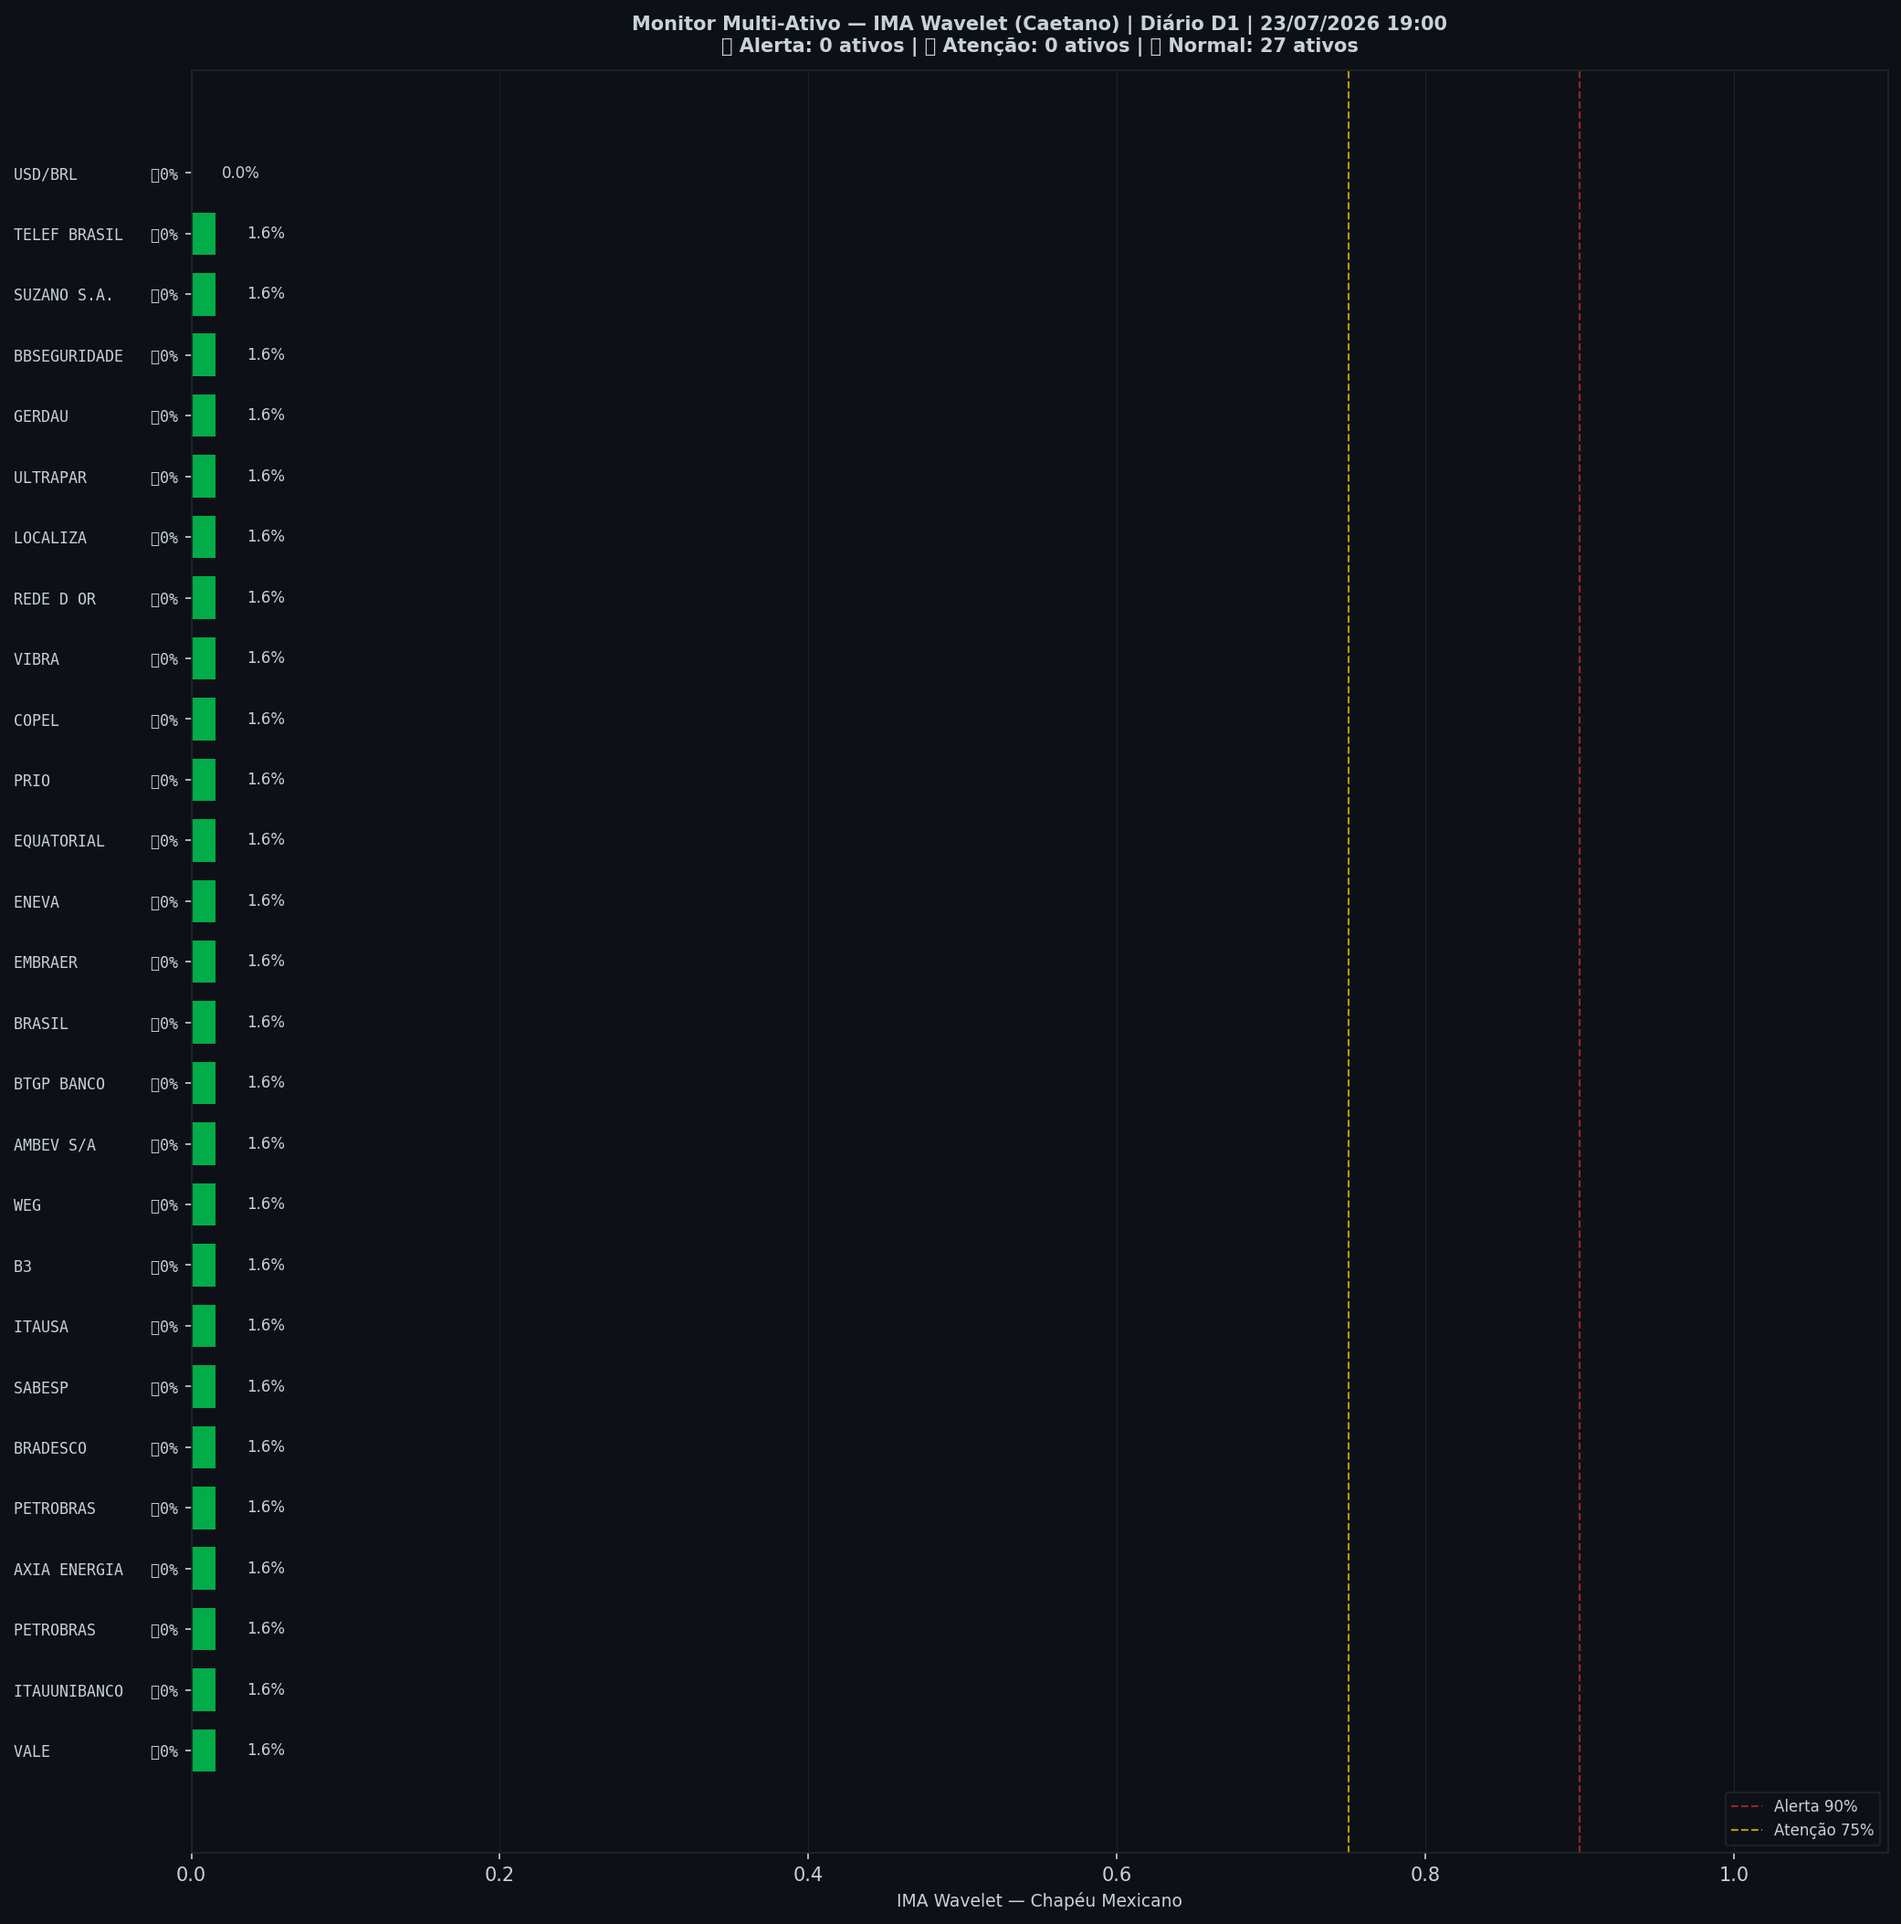
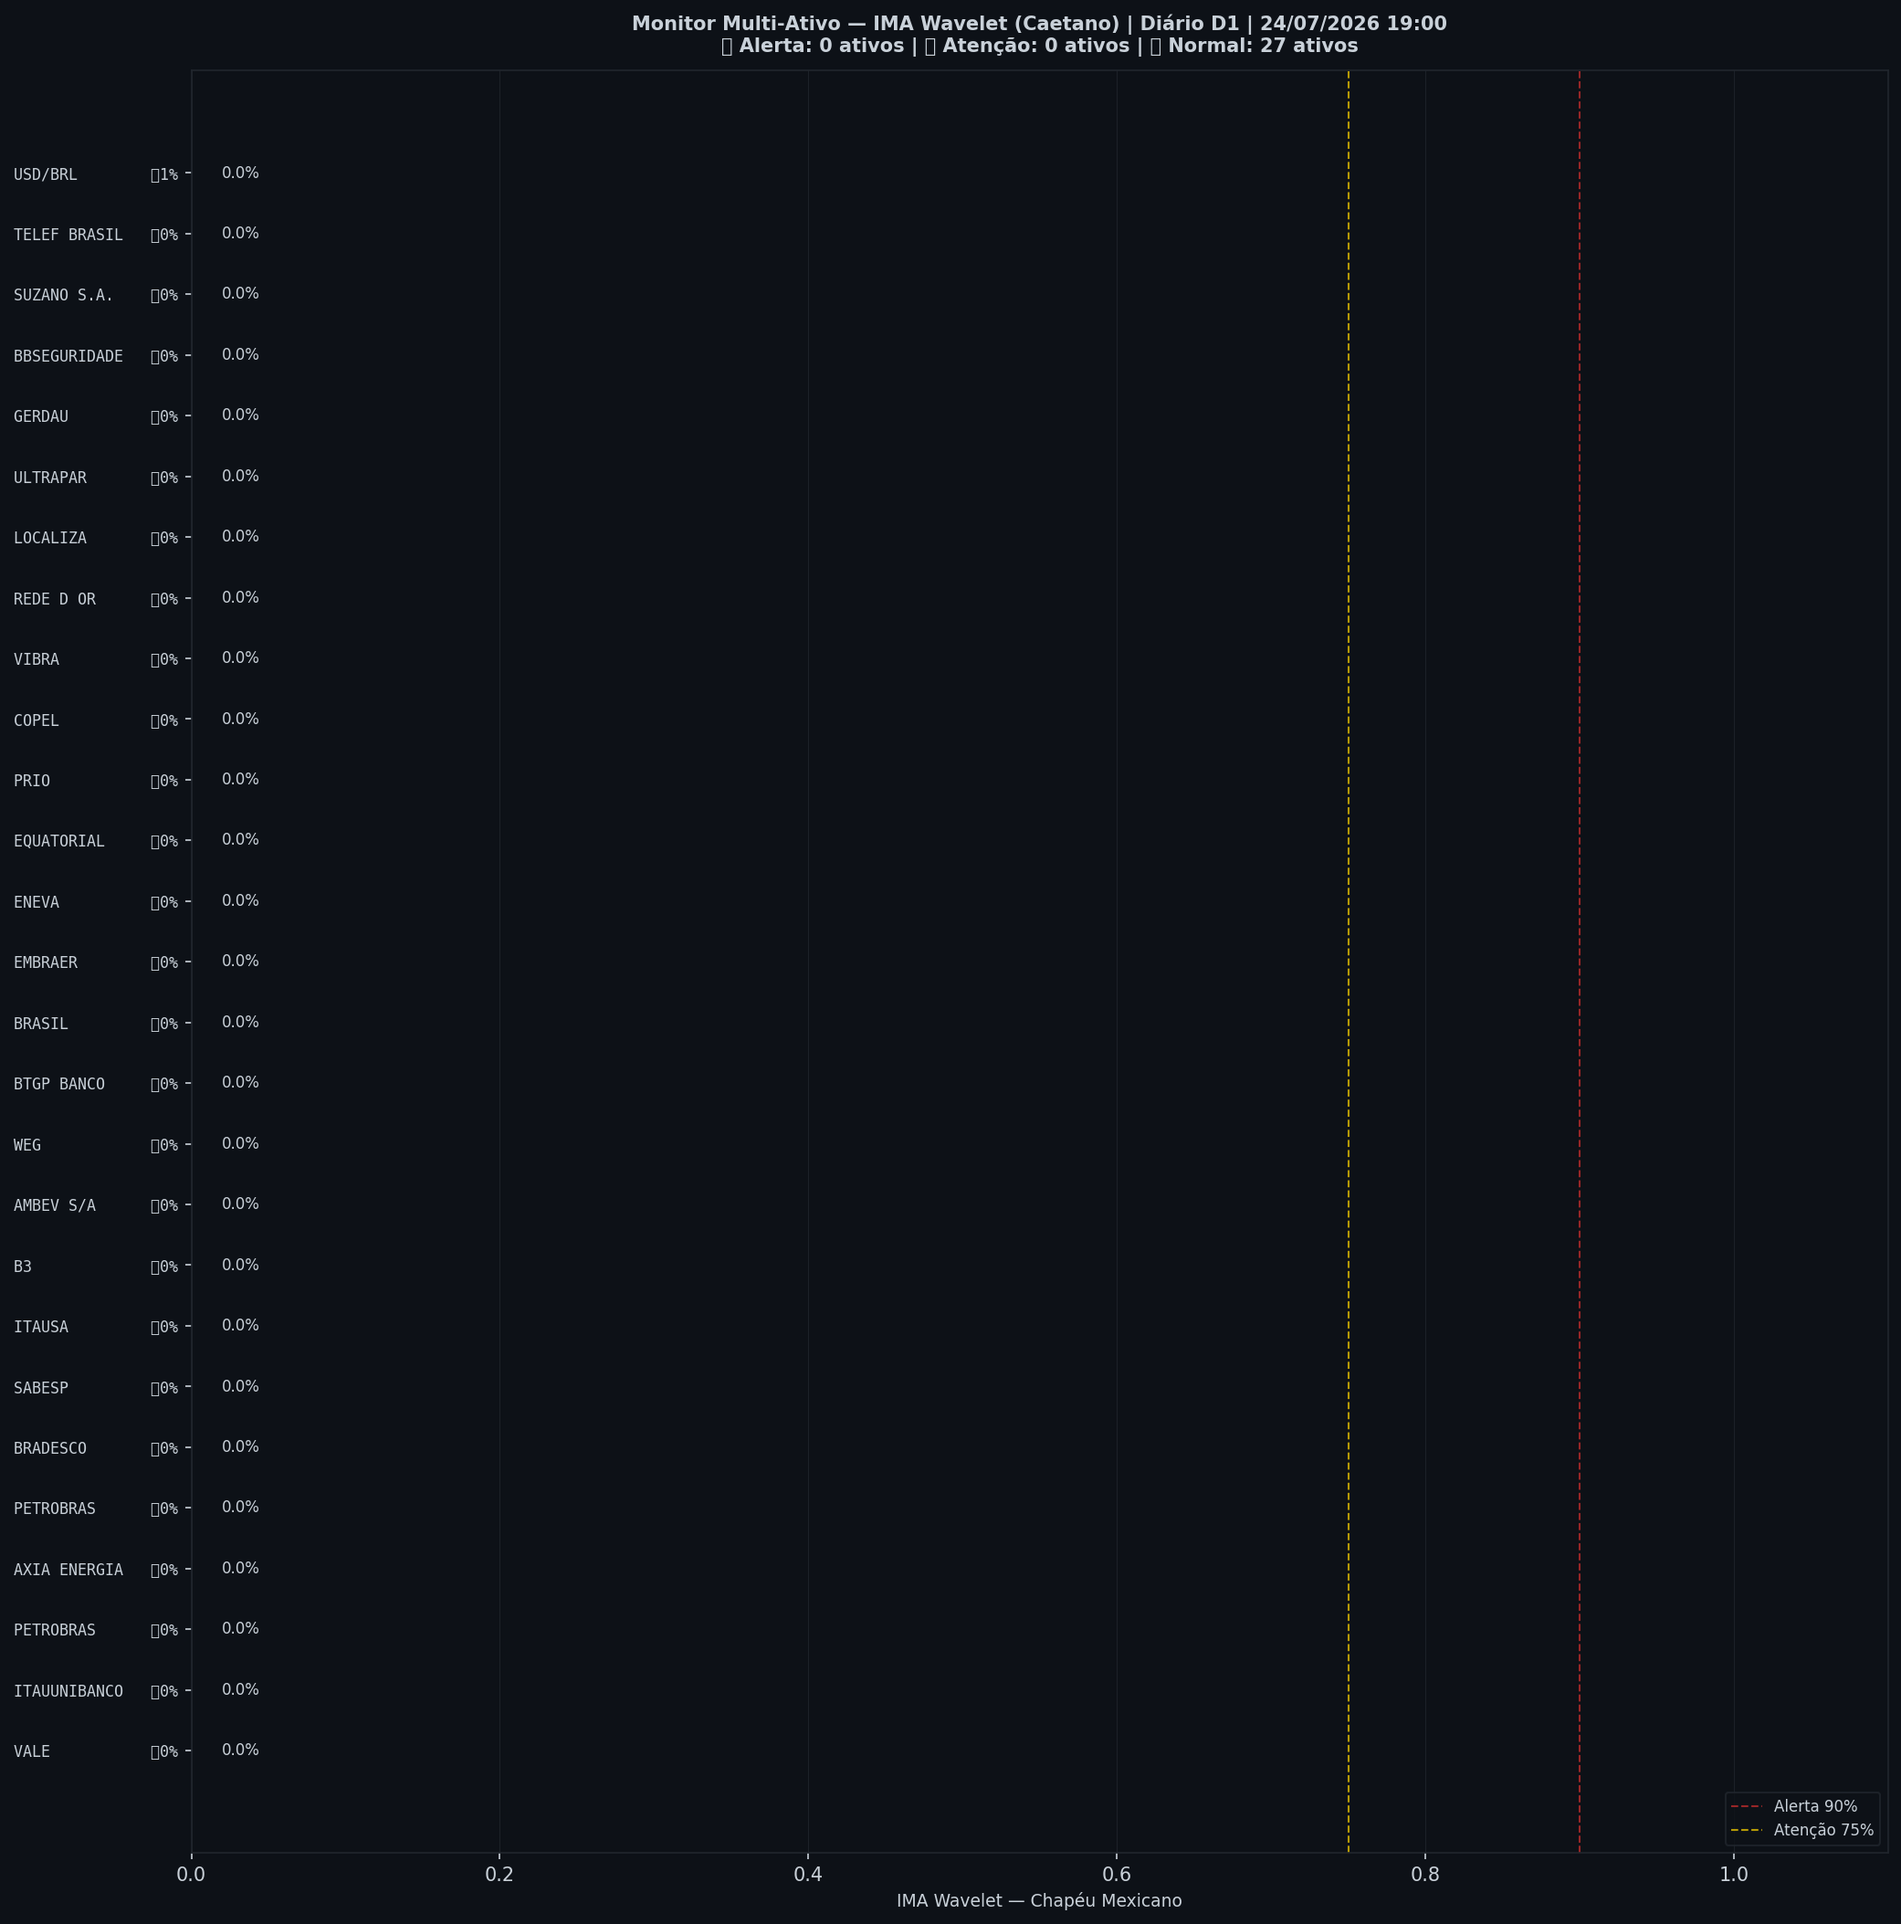
🤖 Auto: Sinal 24/07/2026 19:00

Changed region(s): [[0.0937, 0.0925, 0.1249, 0.9255]]

diff --git a/content/diario/2026-07-23.md b/content/diario/2026-07-23.md
@@ -1,0 +1,105 @@
+---
+title: "🟢 Diário 23/07/2026 — VERDE"
+date: 2026-07-24
+tags: [diario]
+---
+
+> [!success] 🟢 **VERDE** — Risco 0% · ＝ +0 p.p. vs leitura anterior
+> `░░░░░░░░░░░░░░░░░░░░`
+> Mercado sem sinais relevantes de estresse.
+
+
+| Indicador | Valor |
+|---|---|
+| 🔴 ζ Crash — severidade da queda em curso | **0%** |
+| 🔵 ζ Entrada — estrutura de fundo | 71% |
+| 🫧 LPPL DS-Confidence | 0% |
+| 📊 Ibovespa | 174.042 pts |
+
+![Gráfico do sinal](../graficos/sinal_diario.png)
+
+## Últimos 30 pregões
+
+| Data | Zona | Risco | IMA Crash | Entrada | LPPL |
+|---|---|---|---|---|---|
+| 2026-07-23 21:00 | 🟢 VERDE | **0%** | 0% | 71% | 0% |
+| 2026-07-22 21:00 | 🟢 VERDE | **0%** | 0% | 73% | 0% |
+| 2026-07-21 21:00 | 🟢 VERDE | **0%** | 0% | 77% | 0% |
+| 2026-07-20 21:00 | 🟢 VERDE | **0%** | 0% | 80% | 0% |
+| 2026-07-19 21:00 | 🟢 VERDE | **0%** | 1% | 79% | 0% |
+| 2026-07-16 21:00 | 🟢 VERDE | **0%** | 0% | 80% | 0% |
+| 2026-07-15 21:00 | 🟢 VERDE | **0%** | 1% | 80% | 0% |
+| 2026-07-14 21:00 | 🟢 VERDE | **1%** | 2% | 81% | 0% |
+| 2026-07-13 21:00 | 🟢 VERDE | **0%** | 1% | 85% | 0% |
+| 2026-07-12 21:00 | 🟢 VERDE | **0%** | 0% | 91% | 0% |
+| 2026-07-09 21:00 | 🟢 VERDE | **0%** | 0% | 91% | 0% |
+| 2026-07-08 21:00 | 🟢 VERDE | **0%** | 1% | 94% | 0% |
+| 2026-07-07 21:00 | 🟢 VERDE | **0%** | 1% | 93% | 0% |
+| 2026-07-06 21:00 | 🟢 VERDE | **0%** | 0% | 91% | 0% |
+| 2026-07-05 21:00 | 🟢 VERDE | **0%** | 0% | 93% | 0% |
+| 2026-07-02 21:00 | 🟢 VERDE | **0%** | 0% | 94% | 0% |
+| 2026-07-01 21:00 | 🟢 VERDE | **0%** | 1% | 94% | 0% |
+| 2026-06-30 21:00 | 🟢 VERDE | **0%** | 1% | 94% | 0% |
+| 2026-06-29 21:00 | 🟢 VERDE | **0%** | 0% | 95% | 0% |
+| 2026-06-28 21:00 | 🟢 VERDE | **0%** | 0% | 96% | 0% |
+| 2026-06-25 21:00 | 🟢 VERDE | **0%** | 0% | 98% | 0% |
+| 2026-06-24 21:00 | 🟢 VERDE | **0%** | 0% | 98% | 0% |
+| 2026-06-23 21:00 | 🟢 VERDE | **0%** | 0% | 99% | 0% |
+| 2026-06-22 21:00 | 🟢 VERDE | **0%** | 0% | 100% | 0% |
+| 2026-06-21 21:00 | 🟢 VERDE | **0%** | 0% | 99% | 0% |
+| 2026-06-18 21:00 | 🟢 VERDE | **0%** | 0% | 99% | 0% |
+| 2026-06-17 21:00 | 🟢 VERDE | **0%** | 1% | 98% | 0% |
+| 2026-06-16 21:00 | 🟢 VERDE | **0%** | 1% | 98% | 0% |
+| 2026-06-15 21:00 | 🟢 VERDE | **0%** | 1% | 98% | 0% |
+| 2026-06-14 21:00 | 🟢 VERDE | **0%** | 0% | 98% | 0% |
+
+## Monitor Multi-Ativo
+
+**0% dos ativos em tensão** (0🔴 0🟡) — quanto mais ativos disparam juntos, mais confiável o sinal.
+
+| Zona | Ativo | Setor | IMA Crash | IMA Entrada |
+|---|---|---|---|---|
+| 🟢 | **VALE** | Mineração | 0.0% | 0.0% |
+| 🟢 | **ITAUUNIBANCO** | Financeiro | 0.0% | 0.0% |
+| 🟢 | **PETROBRAS** | Petróleo | 0.0% | 0.0% |
+| 🟢 | **AXIA ENERGIA** | Energia | 0.0% | 0.0% |
+| 🟢 | **PETROBRAS** | Petróleo | 0.0% | 0.0% |
+| 🟢 | **BRADESCO** | Financeiro | 0.0% | 0.0% |
+| 🟢 | **SABESP** | Saneamento | 0.0% | 0.0% |
+| 🟢 | **ITAUSA** | Financeiro | 0.0% | 0.0% |
+| 🟢 | **B3** | Financeiro | 0.0% | 0.0% |
+| 🟢 | **AMBEV S/A** | Consumo | 0.0% | 0.0% |
+| 🟢 | **WEG** | Industrial | 0.0% | 0.0% |
+| 🟢 | **BTGP BANCO** | Financeiro | 0.0% | 0.0% |
+| 🟢 | **BRASIL** | Financeiro | 0.0% | 0.0% |
+| 🟢 | **EMBRAER** | Outros | 0.0% | 0.0% |
+| 🟢 | **ENEVA** | Energia | 0.0% | 0.0% |
+| 🟢 | **EQUATORIAL** | Energia | 0.0% | 0.0% |
+| 🟢 | **PRIO** | Petróleo | 0.0% | 0.0% |
+| 🟢 | **COPEL** | Energia | 0.0% | 0.0% |
+| 🟢 | **VIBRA** | Energia | 0.0% | 0.0% |
+| 🟢 | **REDE D OR** | Saúde | 0.0% | 0.0% |
+| 🟢 | **LOCALIZA** | Aluguel | 0.0% | 0.0% |
+| 🟢 | **ULTRAPAR** | Outros | 0.0% | 0.0% |
+| 🟢 | **GERDAU** | Siderurgia | 0.0% | 0.0% |
+| 🟢 | **BBSEGURIDADE** | Financeiro | 0.0% | 0.0% |
+| 🟢 | **SUZANO S.A.** | Papel/Celulose | 0.0% | 0.0% |
+| 🟢 | **TELEF BRASIL** | Outros | 0.0% | 0.0% |
+| 🟢 | **USD/BRL** | Câmbio | 0.0% | 0.8% |
+
+![Monitor multi-ativo](../graficos/multi_diario.png)
+
+*Página atualizada em 24/07/2026 19:00 BRT (leitura da barra de 2026-07-23 BRT).*
+
+> [!info]- Como interpretar (clique para expandir)
+> - **ζ Crash**: fração dos coeficientes wavelet acima do corte (Caetano & Yoneyama 2009). Escala absoluta: ζ=0,90 = 90% dos coeficientes anômalos — historicamente, quedas com ζ≥0,90 foram mais fundas e mais longas. **Mede a severidade do movimento em curso, não prevê o início da queda.**
+> - **ζ Entrada**: coeficientes negativos além do corte — estrutura de fundo, possível região de compra.
+> - **LPPL DS-Confidence**: fração de janelas (60–504 pregões) em que o modelo de bolha de Sornette produz um ajuste válido. 30% já é relevante; acima de 50% é forte evidência de estrutura de bolha.
+> - **Zonas com histerese**: o sinal só muda de zona ao cruzar o limiar de entrada, e só volta ao cruzar o de saída — evita flip-flop diário.
+
+
+---
+*Sinal de Crise B3 v4 · IMA Wavelet ([Caetano & Yoneyama, Physica-A 2007](https://doi.org/10.1016/j.physa.2007.03.054)) + LPPL DS-Confidence (Sornette, ETH-Zurich) · [Metodologia](metodologia) · [Histórico](historico)*
+
+> [!quote]- Aviso
+> Estudo acadêmico. Não constitui recomendação de investimento.

diff --git a/content/index.md b/content/index.md
@@ -8,7 +8,7 @@ tags: [home]
 
 Monitoramento diário e intraday do Ibovespa — **IMA Wavelet** (Prof. Marco Antonio Leonel Caetano, ITA/INSPER) + **LPPL DS-Confidence** (Prof. Didier Sornette, ETH-Zurich).
 
-*Última atualização: 24/07/2026 17:30 BRT · ^BVSP · Intraday 15min · v4*
+*Última atualização: 24/07/2026 19:00 BRT · ^BVSP · Diário D1 · v4*
 
 > [!success] 🟢 **VERDE** — Risco 0% · ＝ +0 p.p. vs leitura anterior
 > `░░░░░░░░░░░░░░░░░░░░`
@@ -18,9 +18,9 @@ Monitoramento diário e intraday do Ibovespa — **IMA Wavelet** (Prof. Marco An
 | Indicador | Valor |
 |---|---|
 | 🔴 ζ Crash — severidade da queda em curso | **0%** |
-| 🔵 ζ Entrada — estrutura de fundo | 49% |
+| 🔵 ζ Entrada — estrutura de fundo | 71% |
 | 🫧 LPPL DS-Confidence | 0% |
-| 📊 Ibovespa | 174.185 pts |
+| 📊 Ibovespa | 174.042 pts |
 
 **Multi-ativo:** 0% em tensão (0🔴 0🟡 de 27 ativos)
 
@@ -32,8 +32,13 @@ Monitoramento diário e intraday do Ibovespa — **IMA Wavelet** (Prof. Marco An
 
 | Data | Zona | Risco | IMA | LPPL |
 |---|---|---|---|---|
-| [24 Jul 2026](diario/2026-07-24) | 🟢 VERDE | **0%** | 0% | 0% |
-| [23 Jul 2026](diario/2026-07-23) | 🟢 VERDE | **3%** | 3% | 0% |
+| [23 Jul 2026](diario/2026-07-23) | 🟢 VERDE | **0%** | 0% | 0% |
+| [22 Jul 2026](diario/2026-07-22) | 🟢 VERDE | **0%** | 0% | 0% |
+| [21 Jul 2026](diario/2026-07-21) | 🟢 VERDE | **0%** | 0% | 0% |
+| [20 Jul 2026](diario/2026-07-20) | 🟢 VERDE | **0%** | 0% | 0% |
+| [19 Jul 2026](diario/2026-07-19) | 🟢 VERDE | **0%** | 1% | 0% |
+| [16 Jul 2026](diario/2026-07-16) | 🟢 VERDE | **0%** | 0% | 0% |
+| [15 Jul 2026](diario/2026-07-15) | 🟢 VERDE | **0%** | 1% | 0% |
 
 ## Navegação
 

diff --git a/content/historico.md b/content/historico.md
@@ -7,6 +7,7 @@ tags: [historico]
 
 | Data | Modo | Zona | Risco | IMA | LPPL |
 |---|---|---|---|---|---|
+| 2026-07-23 | diario | 🟢 VERDE | 0% | 0% | 0% |
 | 2026-07-24 16:45 | intraday | 🟢 VERDE | 0% | 0% | 0% |
 | 2026-07-24 16:30 | intraday | 🟢 VERDE | 0% | 0% | 0% |
 | 2026-07-24 16:15 | intraday | 🟢 VERDE | 0% | 0% | 0% |
